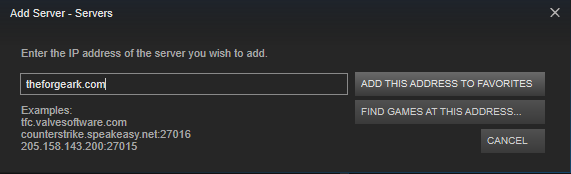
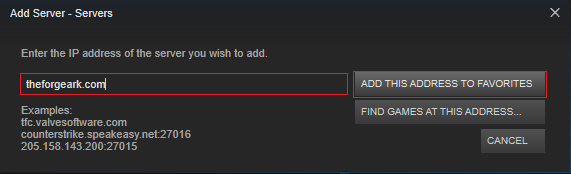
edits

Changed region(s): [[0.0298, 0.4023, 0.9527, 0.546], [0.6252, 0.546, 0.9527, 0.5747]]

diff --git a/arktutorial.php b/arktutorial.php
@@ -1,0 +1,30 @@
+<!doctype html>
+<html>
+  <head>
+    <meta charset="utf-8"></meta>
+      <!--Tab Title-->
+    <title>Adding TheForge Ark</title>
+
+      <!--Meta-->
+    <meta content="The Forge - Minecraft Network" name="description"></meta>
+    <meta content="SkyForge_" name="author"></meta>
+
+      <!--Favicon-->
+    <link href="images/icons/favicon.ico" rel="shortcut icon"></link>
+
+      <!--Fonts-->
+    <link href="https://fonts.googleapis.com/css?family=Anton" rel="stylesheet"></link>
+    <link href="https://fonts.googleapis.com/css?family=Source+Sans+Pro" rel="stylesheet"></link>
+
+      <!--Styles-->
+    <link href="css/style.css" rel="stylesheet"></link>
+
+      <!--Scripts-->
+    <script src="bot.js"></script>
+    <script src="js/main.js"></script>
+  </head>
+<img src="images/arktutorial/step-1-steam-view.png" />
+<img src="images/arktutorial/step-2-steam-servers.png" />
+<img src="images/arktutorial/step-3-steam-add.png" />
+<img src="images/arktutorial/step-4-steam-done.png" />
+</html>
